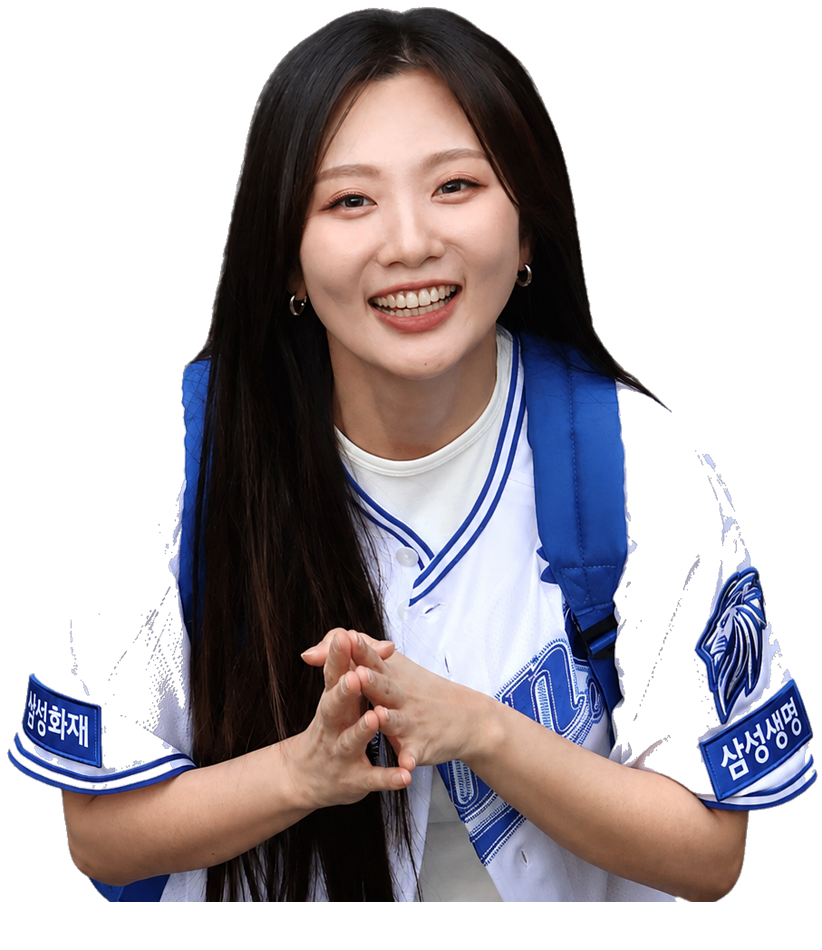
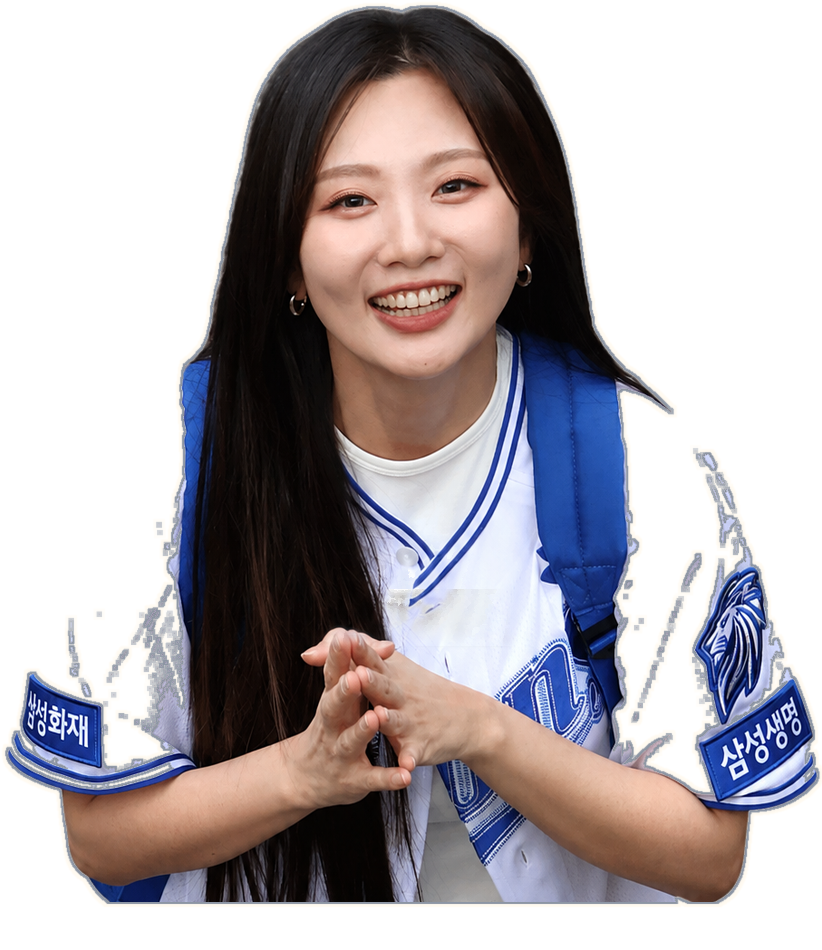
Add files via upload

diff --git a/jemechu/index.html b/jemechu/index.html
@@ -1076,6 +1076,42 @@
         transform: translateY(-6px);
       }
     }
+
+    /* v12 portrait separation and record label */
+    .portrait-stage::before {
+      content: "";
+      position: absolute;
+      left: 50%;
+      bottom: -10px;
+      z-index: 0;
+      width: min(86%, 330px);
+      height: min(70%, 320px);
+      border-radius: 48% 48% 18px 18px;
+      background: linear-gradient(180deg, rgba(255, 246, 225, .84), rgba(255, 236, 244, .58));
+      box-shadow: inset 0 0 0 1px rgba(32, 32, 24, .12), 0 12px 24px rgba(32, 32, 24, .10);
+      transform: translateX(-50%);
+      pointer-events: none;
+    }
+
+    .portrait {
+      filter:
+        drop-shadow(0 0 1px rgba(20, 30, 42, .72))
+        drop-shadow(0 0 3px rgba(20, 30, 42, .28))
+        drop-shadow(0 16px 24px rgba(21, 21, 21, .20));
+    }
+
+    #recordTab {
+      color: var(--spot);
+      border-color: rgba(207, 63, 134, .26);
+      background: rgba(255, 255, 255, .86);
+    }
+
+    #recordTab.is-active {
+      color: #fff;
+      border-color: var(--spot);
+      background: var(--spot);
+    }
+    /* end v12 portrait separation and record label */
   </style>
 </head>
 <body>
@@ -1105,7 +1141,7 @@
 
     <nav class="view-tabs" aria-label="화면 선택">
       <button class="tab-button is-active" id="rouletteTab" type="button" aria-controls="rouletteView" aria-selected="true">뭐 먹지?</button>
-      <button class="tab-button" id="recordTab" type="button" aria-controls="recordView" aria-selected="false">지영이가 골라준 저녁 메뉴</button>
+      <button class="tab-button" id="recordTab" type="button" aria-controls="recordView" aria-selected="false">졍메추 기록</button>
     </nav>
     <section class="view roulette-view" id="rouletteView">
     <section class="machine" aria-live="polite">
@@ -1127,7 +1163,7 @@
 
       <div class="actions">
         <button class="minor-button" id="copyResult" type="button">복사</button>
-        <button class="minor-button star-button" id="starResult" type="button" aria-pressed="false" aria-label="지영이가 골라준 메뉴로 표시" disabled>
+        <button class="minor-button star-button" id="starResult" type="button" aria-pressed="false" aria-label="졍메추 기록으로 표시" disabled>
           <svg viewBox="0 0 24 24" aria-hidden="true"><path d="M12 3.5 14.7 9l6.1.9-4.4 4.3 1 6.1L12 17.4l-5.4 2.9 1-6.1-4.4-4.3 6.1-.9Z"></path></svg>
           <span>별표</span>
         </button>
@@ -1194,7 +1230,7 @@
           <input id="pickName" type="text" aria-label="메뉴" placeholder="메뉴">
           <button id="addPick" type="submit">추가</button>
         </form>
-        <div class="pick-list" id="pickList" aria-label="지영이가 골라준 저녁 메뉴"></div>
+        <div class="pick-list" id="pickList" aria-label="졍메추 기록"></div>
       </div>
     </section>
   </main>

diff --git a/jemechu/sw.js b/jemechu/sw.js
@@ -1,4 +1,4 @@
-const CACHE_NAME = "what-to-eat-v11";
+const CACHE_NAME = "what-to-eat-v12";
 const ASSETS = [
   "./",
   "./index.html",
